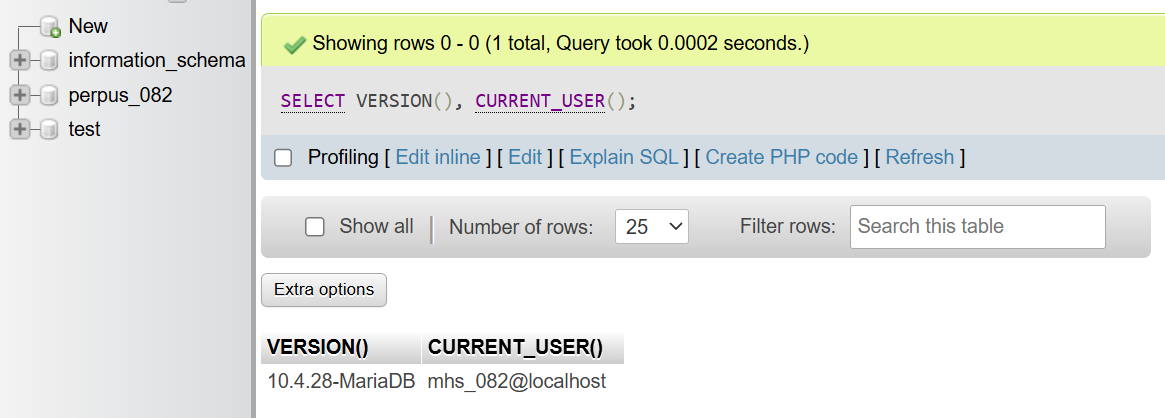
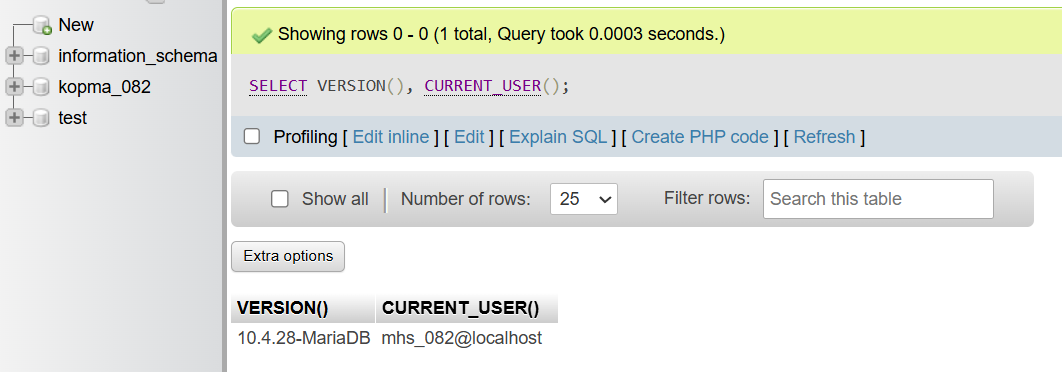
dokumen kebutuhan data kopma

Changed region(s): [[0.0, 0.0, 1.0, 1.0], [0.0, 0.0296, 0.0932, 0.0887]]

diff --git a/p02_kebutuhan_data_25430082.md b/p02_kebutuhan_data_25430082.md
@@ -1,0 +1,137 @@
+# Dokumen Kebutuhan Data - Akademik Ceria RN
+
+## 1. Latar belakang dan aktivitas organisasi
+
+* Sistem Akademik dirancang untuk mengelola proses administrasi akademik di perguruan tinggi. 
+* Aktivitas utama mencakup pendataan mahasiswa, pengelolaan mata kuliah dan kelas, proses pengisian Kartu Rencana Studi (KRS) semesteran, serta pencatatan nilai dan evaluasi akademik hasil studi mahasiswa
+
+## 2. Aktor dan proses bisnis            (tabel PB-xx)
+
+| Kode PB | Aktor Terlibat | Nama Proses Bisnis | Deskripsi |
+| :--- | :--- | :--- | :--- |
+| **PB-01** | Staf Akademik | Pendataan Mahasiswa & Dosen | Mengelola data profil mahasiswa, dosen pengajar, dan penetapan Dosen Pembimbing Akademik (DPA). |
+| **PB-02** | Staf Akademik | Pengelolaan Kurikulum & Kelas | Mengelola master data mata kuliah, pembukaan kelas paralel, dan alokasi dosen pengajar. |
+| **PB-03** | Mahasiswa, DPA | Pengisian & Perubahan KRS | Memproses pengajuan rencana studi, validasi prasyarat, serta persetujuan (*approval*) oleh DPA. |
+| **PB-04** | Dosen Pengajar | Pencatatan Nilai & Hasil Studi | Menginput nilai akhir semester dari dosen pengajar dan menerbitkan Kartu Hasil Studi (KHS). |
+
+## 3. Dokumen sumber yang dianalisis
+
+=================================================================
+KARTU RENCANA STUDI (KRS)
+SEMESTER GANJIL 2026/2027
+NIM           : 25430082            Semester    : 3
+Nama Mahasiswa: Chantika R. B. P.   DPA         : DOS-002 (Dr. Aris)
+Program Studi : S1 Ilmu Komputer    Tgl Cetak   : 05-10-2026
+[Kode MK]   [Nama Mata Kuliah]    [SKS]  [Kelas]  [Dosen Pengajar]
+IF-201      Basis Data Lanjut       3       A     Prof. Budi
+IF-202      Pemrograman Web         3       B     Dr. Siti
+IF-203      Struktur Data           3       A     Ir. Eko
+IF-204      Etika Profesi           2       C     Dra. Ani
+-----------------------------------------------------------------
+Total SKS Diambil: 11 SKS (Maksimal Matakuliah Pilihan: 4)
+=================================================================
+
+**Tabel Bedahan Dokumen Sumber:**
+
+| Elemen pada Dokumen KRS | Entitas Tujuan | Nama Elemen Data di Database |
+| :--- | :--- | :--- |
+| NIM & Nama Mahasiswa | Mahasiswa | `nim`, `nama_mahasiswa` |
+| DPA (ID & Nama) | Dosen | `id_dosen`, `nama_dosen` |
+| Kode MK & Nama Mata Kuliah | Mata_Kuliah | `kode_mk`, `nama_mk` |
+| Kelas & SKS | Kelas | `id_kelas`, `sks` |
+| No/ID & Tgl Pengajuan KRS | KRS | `id_krs`, `tgl_pengajuan` |
+| Item Kelas yang Diambil | Detail_KRS | `id_detail_krs` |
+
+## 4. Entitas kandidat dan elemen data
+
+1. **`Mahasiswa`**: `nim`, `nama_mahasiswa`, `prodi`, `id_dpa`
+2. **`Dosen`**: `id_dosen`, `nidn`, `nama_dosen`, `email`
+3. **`Mata_Kuliah`**: `kode_mk`, `nama_mk`, `sks`
+4. **`Kelas`**: `id_kelas`, `kode_mk`, `nama_kelas`, `id_dosen`
+5. **`KRS`**: `id_krs`, `nim`, `tahun_ajaran`, `semester`, `tgl_pengajuan`, `status_approval`
+6. **`Detail_KRS`**: `id_detail_krs`, `id_krs`, `id_kelas`, `nilai_akhir`
+
+## 5. Aturan bisnis                       (tabel AB-xx)
+
+| Kode AB | Deskripsi Aturan Bisnis |
+| :--- | :--- |
+| **AB-01** | Setiap mahasiswa dibimbing oleh tepat **1 Dosen Pembimbing Akademik (DPA)**. |
+| **AB-02** | Pengisian KRS hanya dapat dilakukan jika status registrasi pembayaran mahasiswa telah aktif. |
+| **AB-03** | Dalam satu transaksi pengisian KRS, mahasiswa dapat mengambil maksimal **4 mata kuliah pilihan** ($P + 2 = 4$). |
+| **AB-04** | Keterlambatan pengisian KRS berakibat pada penonaktifan status mahasiswa. Mahasiswa dikenakan biaya administrasi **Rp2.000 / lembar** ($P$ dalam ribuan) untuk setiap pencetakan ulang KHS/KRS fisik. |
+| **AB-05** | Satu kelas mata kuliah diselenggarakan oleh **1 Dosen Pengajar**. |
+| **AB-06** | Mahasiswa tidak dapat mengambil dua kelas yang memiliki jadwal bentrok. |
+| **AB-07** | Pengajuan KRS wajib mendapatkan persetujuan (*approval*) dari DPA sebelum perkuliahan dimulai. |
+| **AB-08** | Nilai akhir semester diinput oleh Dosen Pengajar paling lambat 14 hari setelah masa Ujian Akhir Semester. |  
+
+## 6. Kebutuhan informasi                 (tabel KI-xx)
+
+| Kode KI | Deskripsi Kebutuhan Informasi | Elemen Data yang Ditampilkan |
+| :--- | :--- | :--- |
+| **KI-01** | Lembar Kartu Rencana Studi (KRS) | `nim`, `nama_mahasiswa`, `kode_mk`, `nama_mk`, `sks`, `nama_kelas`, `status_approval` |
+| **KI-02** | Kartu Hasil Studi (KHS) Semesteran | `nim`, `nama_mahasiswa`, `semester`, `nama_mk`, `sks`, `nilai_akhir` |
+| **KI-03** | Daftar Hadir dan Peserta Kelas | `id_kelas`, `nama_mk`, `nama_kelas`, `nim`, `nama_mahasiswa` |
+| **KI-04** | Laporan Beban Mengajar Dosen | `id_dosen`, `nama_dosen`, `nama_mk`, `nama_kelas`, `sks` |
+| **KI-05** | Rekapitulasi Pengajuan KRS per Tahun Ajaran | `id_krs`, `tahun_ajaran`, `semester`, `nim`, `nama_mahasiswa`, `tgl_pengajuan` |
+
+## 7. Matriks CRUD
+
+| Kode PB | Nama Proses Bisnis | Mahasiswa | Dosen | Mata_Kuliah | Kelas | KRS | Detail_KRS |
+| :--- | :--- | :---: | :---: | :---: | :---: | :---: | :---: |
+| **PB-01** | Pendataan Mahasiswa & Dosen | C, R, U | C, R, U | - | - | - | - |
+| **PB-02** | Pengelolaan Kurikulum & Kelas | - | R | C, R, U, D | C, R, U, D | - | - |
+| **PB-03** | Pengisian & Perubahan KRS | R | R, U | R | R | C, R, U, D | C, R, U, D |
+| **PB-04** | Pencatatan Nilai & Hasil Studi | R | R, U | R | R | R | R, U |
+
+## 8. Kamus data awal                     (dengan penanggung jawab)
+
+| Elemen | Arti | Contoh | Aturan | Penanggung jawab |
+| :--- | :--- | :--- | :--- | :--- |
+| `nim` | NIM Mahasiswa | 25430082 | Unik, 8 digit | Staf Akademik |
+| `nama_mahasiswa` | Nama lengkap mahasiswa | Chantika R. B. P. | Teks, data pribadi | Staf Akademik |
+| `prodi` | Program studi mahasiswa | S1 Ilmu Komputer | Teks | Staf Akademik |
+| `id_dpa` | ID Dosen Pembimbing Akademik | DOS-002 | Format ID Dosen valid | Staf Akademik |
+| `id_dosen` | ID Dosen | DOS-001 | Unik, format DOS-3digit | Staf Kepegawaian |
+| `nidn` | Nomor Induk Dosen Nasional | 0012038001 | Unik, 10 digit | Staf Kepegawaian |
+| `nama_dosen` | Nama lengkap dosen beserta gelar | Dr. Aris, M.Kom. | Teks | Staf Kepegawaian |
+| `email` | Email resmi institusi dosen | aris@kampus.ac.id | Format email valid | Staf Kepegawaian |
+| `kode_mk` | Kode mata kuliah | IF-201 | Unik, format KMK-3digit | Program Studi |
+| `nama_mk` | Nama mata kuliah | Basis Data Lanjut | Teks | Program Studi |
+| `sks` | Jumlah SKS mata kuliah | 3 | Bilangan bulat 1-6 | Program Studi |
+| `id_kelas` | ID Kelas perkuliahan | KLS-101 | Unik per semester | Staf Akademik |
+| `nama_kelas` | Kode kelas paralel | A | Karakter (A/B/C) | Staf Akademik |
+| `id_krs` | ID Transaksi pengajuan KRS | KRS-2026-001 | Unik per pengajuan | Staf Akademik |
+| `tahun_ajaran` | Tahun ajaran perkuliahan | 2026/2027 | Format YYYY/YYYY | Staf Akademik |
+| `semester` | Semester berjalan | 3 | Bilangan bulat 1-8 | Staf Akademik |
+| `tgl_pengajuan` | Tanggal pengajuan KRS | 2026-10-05 | Format YYYY-MM-DD | Staf Akademik |
+| `status_approval` | Status persetujuan DPA | Disetujui | Draf / Disetujui / Ditolak | DPA |
+| `id_detail_krs` | ID detail pengambilan kelas | 1001 | Unik, auto-increment | Staf Akademik |
+| `nilai_akhir` | Nilai mutu huruf hasil studi | A | Huruf mutu (A/B/C/D/E), data pribadi | Dosen Pengajar |
+
+## 9. Kebutuhan Non-Fungsional Data
+
+* **Volume Data:** Sistem dikondisikan untuk menangani lalu lintas pengisian KRS hingga **50 transaksi harian** per siklus registrasi ($40 + 5 \times 2 = 50$).
+* **Retensi Data:** Data riwayat KRS, KHS, dan nilai akademik disimpan secara permanen selama mahasiswa aktif dan minimal 7 tahun setelah kelulusan untuk keperluan akreditasi institusi.
+* **Identifikasi Data Pribadi dan Hak Akses:**
+
+  **1. Elemen Data Pribadi / Sensitif:**
+  - **Identitas Mahasiswa:** `nama_mahasiswa`, `prodi` (Data Identitas Diri)
+  - **Identitas Dosen:** `nama_dosen`, `email`, `nidn` (Data Identitas Pengajar)
+  - **Data Hasil Evaluasi:** `nilai_akhir` (Data Sensitif Prestasi Akademik)
+
+  **2. Matriks Otorisasi / Hak Akses Data:**
+
+  | Elemen Data Pribadi | Aktor yang Boleh Mengakses | Tingkat Hak Akses | Keterangan / Batasan |
+  | :--- | :--- | :--- | :--- |
+  | `nama_mahasiswa`, `prodi` | Mahasiswa, Staf Akademik | **Read / Update** | Mahasiswa hanya dapat mengubah profil milik sendiri. |
+  | | Dosen Pengajar, DPA | **Read Only** | Untuk verifikasi identitas di kelas / bimbingan. |
+  | `nama_dosen`, `email`, `nidn` | Dosen, Staf Kepegawaian | **Read / Update** | Dosen hanya dapat mengedit profil milik sendiri. |
+  | | Mahasiswa, Staf Akademik | **Read Only** | Informasi kontak publik untuk perkuliahan. |
+  | `nilai_akhir` | Dosen Pengajar | **Create / Read / Update** | Dosen hanya menginput/mengubah nilai pada kelas yang diampu. |
+  | | Mahasiswa Bersangkutan | **Read Only** | Mahasiswa hanya melihat nilai miliknya sendiri (KHS). |
+  | | DPA & Staf Akademik | **Read Only** | Untuk keperluan evaluasi akademik dan transparansi. |
+
+## 10. Isu kualitas data yang diantisipasi
+
+* **Validasi Range Nilai Mutu:** Nilai akhir diatur hanya menerima masukan huruf mutu yang valid (`A`, `B`, `C`, `D`, `E`).
+* **Pencegahan SKS Melebihi Batas:** Sistem menolak otomatis pengajuan KRS jika jumlah SKS yang diambil melebihi jatah maksimum berdasarkan akumulasi SKS semester sebelumnya.

diff --git a/p02_kebutuhan_data_kopma_25430082.md b/p02_kebutuhan_data_kopma_25430082.md
@@ -1,0 +1,123 @@
+# Dokumen Kebutuhan Data - Koperasi Mahasiswa (Kopma Cendikia)
+
+## 1. Latar Belakang dan Aktivitas Organisasi
+Koperasi Mahasiswa (Kopma Cendikia) adalah unit kegiatan mahasiswa yang bergerak di bidang layanan retail ritel dan penyediaan kebutuhan harian mahasiswa. Aktivitas utama organisasi mencakup keanggotaan mahasiswa, manajemen persediaan stok barang, transaksi penjualan kasir, serta pelaporan unit usaha harian.
+
+## 2. Aktor dan Proses Bisnis
+
+| Kode PB | Aktor Terlibat | Nama Proses Bisnis | Deskripsi |
+| :--- | :--- | :--- | :--- |
+| **PB-01** | Pengurus Kopma | Pendataan Anggota & Pengurus | Mengelola pendaftaran anggota koperasi mahasiswa dan identitas petugas kasir/pengurus. |
+| **PB-02** | Petugas Gudang | Pengelolaan Stok & Kategori Barang | Mengelola data persediaan barang toko, harga jual, dan kategori produk. |
+| **PB-03** | Kasir, Anggota/Pembeli | Transaksi Penjualan Retail | Memproses transaksi penjualan barang di toko, pemberian diskon anggota, dan pencetakan nota. |
+| **PB-04** | Pengurus Kopma | Pelaporan Keuangan & Penjualan | Menyusun rekapitulasi penjualan harian, pendapatan unit usaha, dan sisa hasil usaha. |
+
+## 3. Dokumen Sumber yang Dianalisis
+
+Dokumen sumber utama yang dianalisis adalah **Nota Penjualan Toko Kopma** yang diberikan kepada pembeli/anggota saat transaksi.
+
+**Rancangan Struk / Nota Penjualan Fiktif:**
+
+=================================================================
+                    KOPMA CENDIKIA REGINA
+                Jl. Universitas No. 1, Campus Area
+=================================================================
+No. Nota    : PJ-2026-0082          Tgl Transaksi : 05-10-2026
+Kasir       : KAS-02 (Siti)         No. Anggota   : A-0457 (Chantika)
+-----------------------------------------------------------------
+[Kode]   [Nama Barang]        [Qty]   [Harga]       [Subtotal]
+BRG-01   Buku Tulis A5          2     Rp 5.000      Rp 10.000
+BRG-02   Pena Gel Black         3     Rp 4.000      Rp 12.000
+BRG-03   Map Kertas             1     Rp 3.000      Rp  3.000
+-----------------------------------------------------------------
+Total Belanja   : Rp 25.000
+Diskon Anggota  : Rp  2.000 (Diskon khusus P = Rp2.000)
+Total Bayar     : Rp 23.000
+Metode Bayar    : Tunai
+=================================================================
+
+**Tabel Bedahan Dokumen Sumber:**
+
+| Elemen pada Dokumen Nota | Entitas Tujuan | Nama Elemen Data di Database |
+| :--- | :--- | :--- |
+| No. Anggota & Nama Anggota | Anggota | `no_anggota`, `nama_anggota` |
+| ID & Nama Kasir | Kasir | `id_kasir`, `nama_kasir` |
+| Kode & Nama Barang | Barang | `kode_barang`, `nama_barang` |
+| Kategori Barang | Kategori | `id_kategori`, `nama_kategori` |
+| No. Nota & Tgl Transaksi | Penjualan | `no_nota`, `tgl_transaksi` |
+| Item Barang & Jumlah Beli | Detail_Penjualan | `id_detail`, `jumlah_beli` |
+
+## 4. Entitas Kandidat dan Elemen Data
+
+1. **`Anggota`**: `no_anggota`, `nim_anggota`, `nama_anggota`, `no_hp_anggota`
+2. **`Kasir`**: `id_kasir`, `nama_kasir`, `jabatan`
+3. **`Kategori`**: `id_kategori`, `nama_kategori`
+4. **`Barang`**: `kode_barang`, `id_kategori`, `nama_barang`, `harga_satuan`, `stok_barang`
+5. **`Penjualan`**: `no_nota`, `no_anggota`, `id_kasir`, `tgl_transaksi`, `total_bayar`, `diskon_anggota`
+6. **`Detail_Penjualan`**: `id_detail`, `no_nota`, `kode_barang`, `jumlah_beli`, `subtotal`
+
+## 5. Aturan Bisnis
+
+| Kode AB | Deskripsi Aturan Bisnis |
+| :--- | :--- |
+| **AB-01** | Anggota terdaftar memiliki `no_anggota` unik yang terikat pada `nim_anggota`. |
+| **AB-02** | Setiap transaksi penjualan ditangani oleh tepat **1 Kasir** yang bertugas. |
+| **AB-03** | Jumlah barang minimum yang dapat dibeli dalam satu item detail transaksi adalah 1 unit dan stok barang berkurang otomatis ($AB\ge0$). |
+| **AB-04** | Anggota aktif berhak menerima potongan harga tunai (*diskon anggota*) sebesar **Rp2.000** ($P$ dalam ribuan) untuk setiap total transaksi di atas Rp20.000. |
+| **AB-05** | Setiap barang tergolong ke dalam **1 Kategori** barang toko. |
+| **AB-06** | Transaksi yang sudah diterbitkan per notanya tidak dapat dihapus, hanya dapat dibatalkan melalui persetujuan Pengurus. |
+
+## 6. Kebutuhan Informasi
+
+| Kode KI | Deskripsi Kebutuhan Informasi | Elemen Data yang Ditampilkan |
+| :--- | :--- | :--- |
+| **KI-01** | Struk / Nota Penjualan Retail | `no_nota`, `tgl_transaksi`, `nama_anggota`, `nama_barang`, `jumlah_beli`, `total_bayar` |
+| **KI-02** | Laporan Stok Barang Toko | `kode_barang`, `nama_barang`, `nama_kategori`, `harga_satuan`, `stok_barang` |
+| **KI-03** | Rekapitulasi Penjualan Harian | `no_nota`, `tgl_transaksi`, `nama_kasir`, `total_bayar`, `diskon_anggota` |
+| **KI-04** | Daftar Keanggotaan Aktif Kopma | `no_anggota`, `nim_anggota`, `nama_anggota`, `no_hp_anggota` |
+
+## 7. Matriks CRUD
+
+| Kode PB | Nama Proses Bisnis | Anggota | Kasir | Kategori | Barang | Penjualan | Detail_Penjualan |
+| :--- | :--- | :---: | :---: | :---: | :---: | :---: | :---: |
+| **PB-01** | Pendataan Anggota & Pengurus | C, R, U | C, R, U | - | - | - | - |
+| **PB-02** | Pengelolaan Stok & Kategori | - | R | C, R, U, D | C, R, U, D | - | - |
+| **PB-03** | Transaksi Penjualan Retail | R | R | R | R, U | C, R | C, R |
+| **PB-04** | Pelaporan Keuangan & Penjualan | R | R | R | R | R | R |
+
+## 8. Kamus Data Awal
+
+| Elemen | Arti | Contoh | Aturan | Penanggung jawab |
+| :--- | :--- | :--- | :--- | :--- |
+| `no_anggota` | Nomor anggota koperasi | A-0457 | Unik, format A-4digit | Ketua |
+| `nim_anggota` | NIM anggota | 25430082 | Unik, 10 digit | Ketua |
+| `nama_anggota` | Nama lengkap anggota | Chantika R. B. P. | Teks | Ketua |
+| `no_hp_anggota` | Nomor HP anggota | 0812xxxx | Data pribadi, akses terbatas | Ketua |
+| `id_kasir` | ID petugas kasir | KAS-02 | Unik, format KAS-2digit | Kasir |
+| `nama_kasir` | Nama lengkap kasir | Siti | Teks | Kasir |
+| `jabatan` | Jabatan pengurus | Kasir Toko | Teks | Kasir |
+| `id_kategori` | ID kategori barang | KAT-01 | Unik, format KAT-2digit | Petugas gudang |
+| `nama_kategori` | Nama kelompok barang | Alat Tulis | Teks | Petugas gudang |
+| `kode_barang` | Kode identifikasi barang | BRG-01 | Unik, format BRG-2digit | Petugas gudang |
+| `nama_barang` | Nama produk barang toko | Buku Tulis A5 | Teks | Petugas gudang |
+| `harga_satuan` | Harga jual per unit | 5000 | Bilangan bulat $\ge 0$ | Kasir |
+| `stok_barang` | Jumlah sisa barang toko | 35 | Bilangan bulat $\ge 0$ (AB-03) | Petugas gudang |
+| `no_nota` | Nomor nota penjualan | PJ-2609-0142 | Unik per nota | Kasir |
+| `tgl_transaksi` | Tanggal waktu belanja | 2026-10-05 | Format YYYY-MM-DD | Kasir |
+| `total_bayar` | Total tagihan belanja | 23000 | Bilangan bulat $\ge 0$ (rupiah) | Kasir |
+| `diskon_anggota` | Nominal potongan belanja | 2000 | Bilangan bulat $\ge 0$ (AB-04) | Kasir |
+| `id_detail` | ID item transaksi detail | 5001 | Unik, auto-increment | Kasir |
+| `jumlah_beli` | Banyaknya unit dibeli | 2 | Bilangan bulat $\ge 1$ | Kasir |
+| `subtotal` | Subtotal harga item | 10000 | Bilangan bulat $\ge 0$ (rupiah) | Kasir |
+
+## 9. Kebutuhan Non-Fungsional Data
+
+Kebutuhan non-fungsional dicatat secara singkat sebagai berikut:
+- **Volume Transaksi:** Perkiraan ±50 nota per hari pada siklus operasional normal ($40 + 5 \times 2 = 50$).
+- **Retensi Data:** Data transaksi penjualan disimpan minimal lima tahun untuk keperluan audit keuangan koperasi.
+- **Akses Data Pribadi:** Nomor HP anggota (`no_hp_anggota`) hanya boleh dilihat oleh ketua koperasi. Pembatasan akses data pribadi seperti ini sejalan dengan kewajiban pengendali data dalam Undang-Undang Pelindungan Data Pribadi [17].
+
+## 10. Isu Kualitas Data yang Diantisipasi
+
+- **Pencegahan Stok Minus:** Sistem menolak transaksi secara otomatis jika `jumlah_beli` melebihi `stok_barang` yang tersedia.
+- **Integritas Referensial Detail Transaksi:** Penghapusan data induk barang (`kode_barang`) ditolak jika barang tersebut sudah tercatat di tabel `Detail_Penjualan`.

diff --git a/Laporan/p01_laporan_25430082.md b/Laporan/p01_laporan_25430082.md
@@ -15,7 +15,7 @@
 
 ## 2. Ringkasan Dasar Teori
 
-Basis data adalah kumpulan data yang saling berhubungan dan disimpan secara terorganisasi agar dapat dipakai bersama oleh banyak pengguna dan aplikasi. Perangkat lunak yang mengelolanya disebut DBMS
+- Basis data adalah kumpulan data yang saling berhubungan dan disimpan secara terorganisasi agar dapat dipakai bersama oleh banyak pengguna dan aplikasi. Perangkat lunak yang mengelolanya disebut DBMS
 
 ## 3. Hasil Langkah Percobaan 
 
@@ -40,39 +40,39 @@ Basis data adalah kumpulan data yang saling berhubungan dan disimpan secara tero
 ## 4. Jawaban Titik Analisis
 
 **Analisis 1**
-Hampir tidak ada konsekuensinya, karena pada dasarnya memang sama. Jadi jika mencari solusi sintaks eror menggunakan dokumentasi MySQL di internet masih sangat relevan. Kapan harus merujuk ke dokumentasi MariaDB? Ketika sedang menggunakan fitur baru atau yang khusus untuk MariaDB
+- Hampir tidak ada konsekuensinya, karena pada dasarnya memang sama. Jadi jika mencari solusi sintaks eror menggunakan dokumentasi MySQL di internet masih sangat relevan. Kapan harus merujuk ke dokumentasi MariaDB? Ketika sedang menggunakan fitur baru atau yang khusus untuk MariaDB
 
 **Analisis 2**
-Sistem mendeteksi klien sedang mencoba untuk login tanpa memasukkan password
+- Sistem mendeteksi klien sedang mencoba untuk login tanpa memasukkan password
 
 **Analisis 3**
-Information_schema adalah database bawaan sistem yang hanya berisi informasi struktur, yang di mana setiap user mempunyai izin untuk mengaksesnya. Sedangkan mysql adalah database yang berisi data-data penting. Eror 1045 adalah gagal login yang disebabkan oleh typo dan kurang '-p'. Sedangkan eror 1044 adalah eror yang disebabkan oleh hak akses
+- Information_schema adalah database bawaan sistem yang hanya berisi informasi struktur, yang di mana setiap user mempunyai izin untuk mengaksesnya. Sedangkan mysql adalah database yang berisi data-data penting. Eror 1045 adalah gagal login yang disebabkan oleh typo dan kurang '-p'. Sedangkan eror 1044 adalah eror yang disebabkan oleh hak akses
 
 **Analisis 4**
-Karena mode cookie mengharuskan user untuk login manual dengan menggunakan password setiap kali ingin masuk. Sedangkan config, password dalam bentuk teks langsung di dalam file
+- Karena mode cookie mengharuskan user untuk login manual dengan menggunakan password setiap kali ingin masuk. Sedangkan config, password dalam bentuk teks langsung di dalam file
 
 ## 5. Hasil Latihan dan Modifikasi
 
 ![Error E.1](./img/e1_eror.png)
-Galat muncul saat mencoba membuat tabel karena hak akses yang diberikan hanya sebatas 'SELECT', sehingga tidak diizinkan melakukan modifikasi struktur seperti perintah 'CREATE TABLE'
+- Galat muncul saat mencoba membuat tabel karena hak akses yang diberikan hanya sebatas 'SELECT', sehingga tidak diizinkan melakukan modifikasi struktur seperti perintah 'CREATE TABLE'
 
 ![Ubah skrip E.2](./img/e2_ubah_skrip.png)
 
-## 6. Tugas Mandiri: Milestone Proyek 01
+## 6. Tugas Mandiri: Milestone Proyek 01   
 
 ![Error developer F.2](./img/f2_developer.png)
 
 ## 7. Pembahasan dan Kendala
 
-Ada beberapa kendala yang saya alami, salah satunya adalah port XAMPP yang bentrok, sempat bingung juga saat menguji bagian hak akses developer, karena seharusnya tidak bisa masuk, tapi tadi bisa terakses dan tidak Access denied
+- Ada beberapa kendala yang saya alami, salah satunya adalah port XAMPP yang bentrok, sempat bingung juga saat menguji bagian hak akses developer, karena seharusnya tidak bisa masuk, tapi tadi bisa terakses dan tidak Access denied
 
 ## 8. Kesimpulan
 
-Dari pengerjaan Milestone 1, konfigurasi awal lingkungan basisdata menggunakan MariaDB telah berhasil diimplementasikan. Saya berhasil membuat akun kerja developer dengan pengamanan password, sekaligus menerapkan pembatasan hak akses agar user tersebut tidak bisa sembarangan mengakses sistem bawaan. Repositori lokal untuk proyek perpustakaan beserta dokumen pelengkapnya seperti 'README.md' dan '.gitignore' selesai diatur dan diunggah ke GitHub
+- Dari pengerjaan Milestone 1, konfigurasi awal lingkungan basisdata menggunakan MariaDB telah berhasil diimplementasikan. Saya berhasil membuat akun kerja developer dengan pengamanan password, sekaligus menerapkan pembatasan hak akses agar user tersebut tidak bisa sembarangan mengakses sistem bawaan. Repositori lokal untuk proyek koperasi mahasiswa beserta dokumen pelengkapnya seperti 'README.md' dan '.gitignore' selesai diatur dan diunggah ke GitHub
 
 ## 9. Pernyataan Penggunaan AI
 
-Menggunakan AI (Gemini) sebagai mitra diskusi untuk membantu analisis error dan memandu urutan yang sekiranya acak dan belum paham
+- Menggunakan AI (Gemini) sebagai mitra diskusi untuk membantu analisis error dan memandu urutan yang sekiranya acak dan belum paham
 
 ## 10. Bukti Git
 

diff --git a/README.md b/README.md
@@ -7,6 +7,6 @@
 ---
 
 ## Identitas Proyek
-- **Tema Proyek:** Perpustakaan ('perpus_082')
-- **Nama Organisasi Fiktif:** Perpustakaan Cendikia Regina
-- **Lingkup Layanan:** Organisasi fiktif ini bergerak di bidang layanan literasi dan pengelolaan perpustakaan digital kampus yang mencangkup manajemen data anggota, pencatatan inventaris buku, serta pengelolaan transaksi peminjaman dan pengembalian
+- **Tema Proyek:** Akademik (`akad_082`)
+- **Nama Organisasi Fiktif:** Akademik Ceria RN
+- **Lingkup Layanan:** Sistem fiktif ini bergerak di bidang layanan administrasi akademik kampus, mencakup pengelolaan data mahasiswa, dosen, kurikulum mata kuliah, pembukaan kelas perkuliahan, pengisian Kartu Rencana Studi (KRS), serta pencatatan nilai dan penerbitan Kartu Hasil Studi (KHS).
